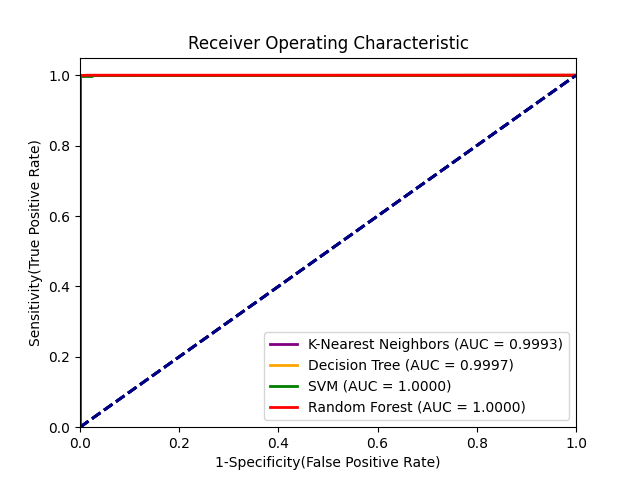
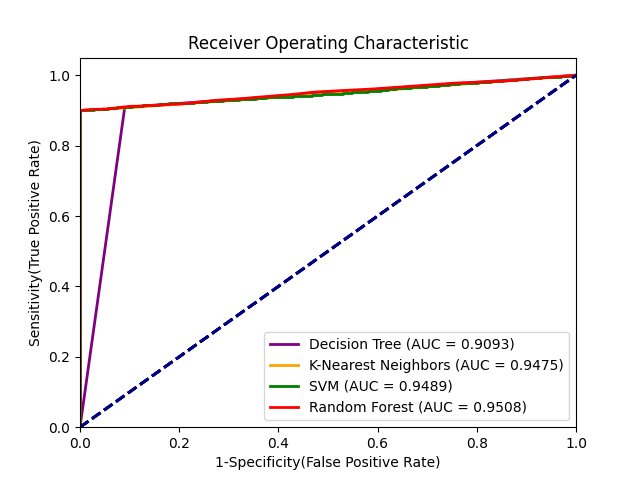
change dataset

diff --git a/main.py b/main.py
@@ -1,33 +1,32 @@
 import pandas as pd
 import numpy as np
+from scipy.io import arff
 from sklearn.model_selection import train_test_split
 from classify import Classifiers
 
 
-data_path = 'data/03-11/UDPLag.csv'
-data = pd.read_csv(data_path)
+data_path = 'data/final dataset.arff'
+data = arff.loadarff(data_path)
+data = pd.DataFrame(data[0])
 
-redundant_col = ['Unnamed: 0', 'Flow ID', ' Source IP', ' Source Port',
-                 ' Destination IP', ' Destination Port', ' Protocol', ' Timestamp', 'SimillarHTTP']
+redundant_col = ['SRC_ADD', 'DES_ADD', 'PKT_TYPE',
+                 'FLAGS', 'NODE_NAME_FROM', 'NODE_NAME_TO']
 data.drop(axis=1, columns=redundant_col, inplace=True)
 data = data.replace([np.inf, -np.inf], np.nan).dropna(how="any")
 
-X_dos = data.loc[data[' Label'] == 'Syn',
-                 :' Inbound'].values[:5000].astype(np.float)
+X_dos = data.loc[data['PKT_CLASS'] == b'UDP-Flood',
+                 :'LAST_PKT_RESEVED'].values[:10000].astype(np.float)
 y_dos = np.ones(X_dos.shape[0])
-X_beg = data.loc[data[' Label'] == 'BENIGN',
-                 :' Inbound'].values.astype(np.float)
+X_beg = data.loc[data['PKT_CLASS'] == b'Normal',
+                 :'LAST_PKT_RESEVED'].values[:10000].astype(np.float)
 y_beg = np.zeros(X_beg.shape[0])
+print(X_dos.shape, X_beg.shape)
 
 X = np.concatenate((X_dos, X_beg))
 y = np.concatenate((y_dos, y_beg))
 
 X_train, X_test, y_train, y_test = train_test_split(
     X, y, test_size=0.3, random_state=42)
-x_max = -np.inf
-for row in X_train:
-    x_max = max(x_max, np.max(row))
-print(x_max)
 
 classifiers = Classifiers()
 report, roc = classifiers.run(X_train, X_test, y_train, y_test)

diff --git a/README.md b/README.md
@@ -1,5 +1,3 @@
 # very-simple-dos-detection
 
-Dataset: DDoS Evaluation Dataset (CIC-DDoS2019)
-
-Used Data: data/03-11/UDPLag.csv
+Dataset: https://www.researchgate.net/publication/292967044_Dataset-_Detecting_Distributed_Denial_of_Service_Attacks_Using_Data_Mining_Techniques
